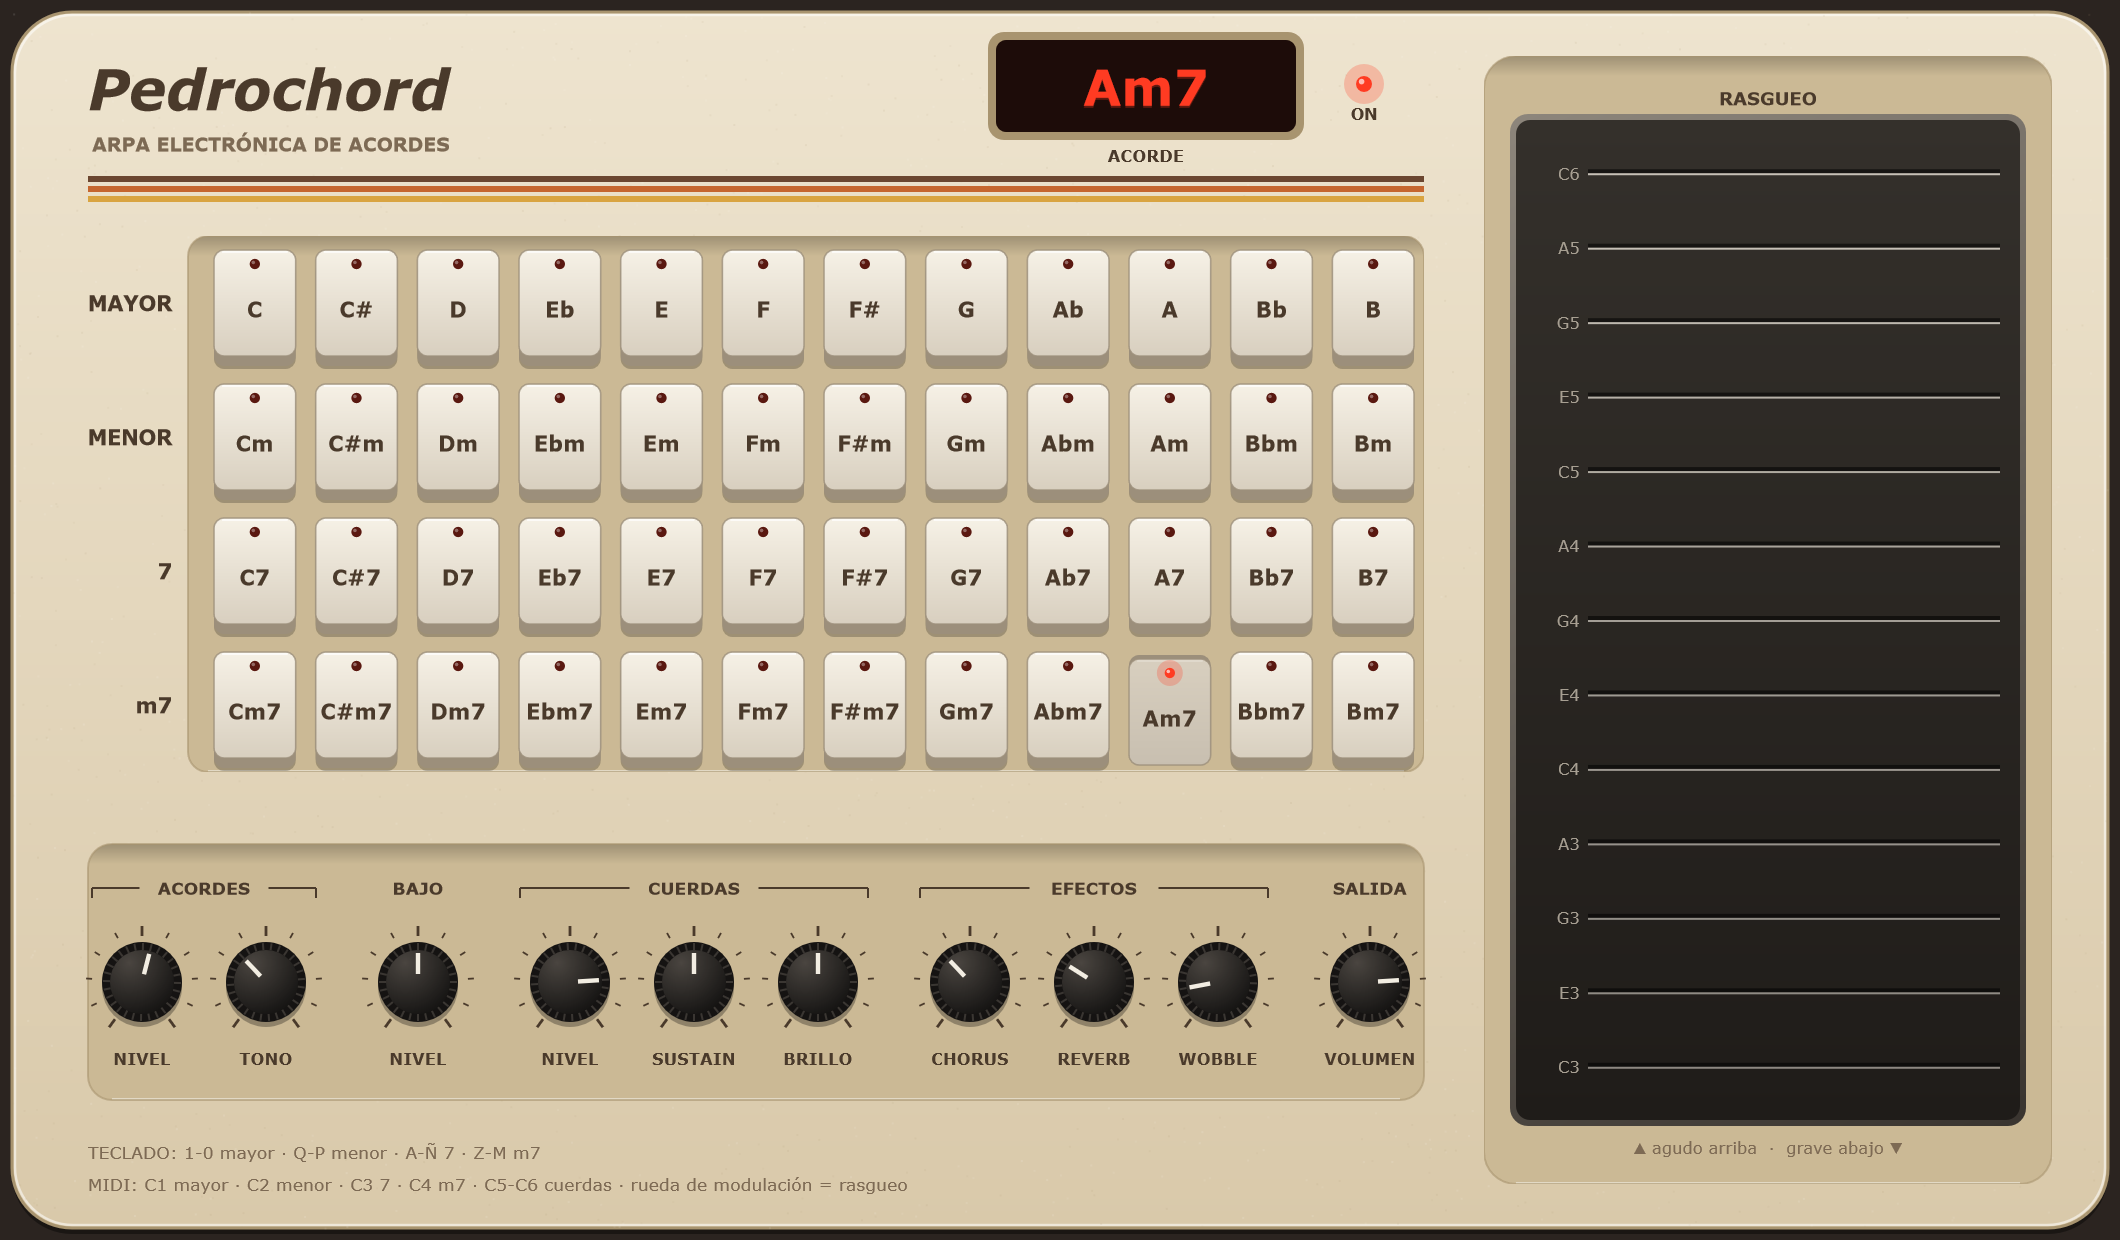
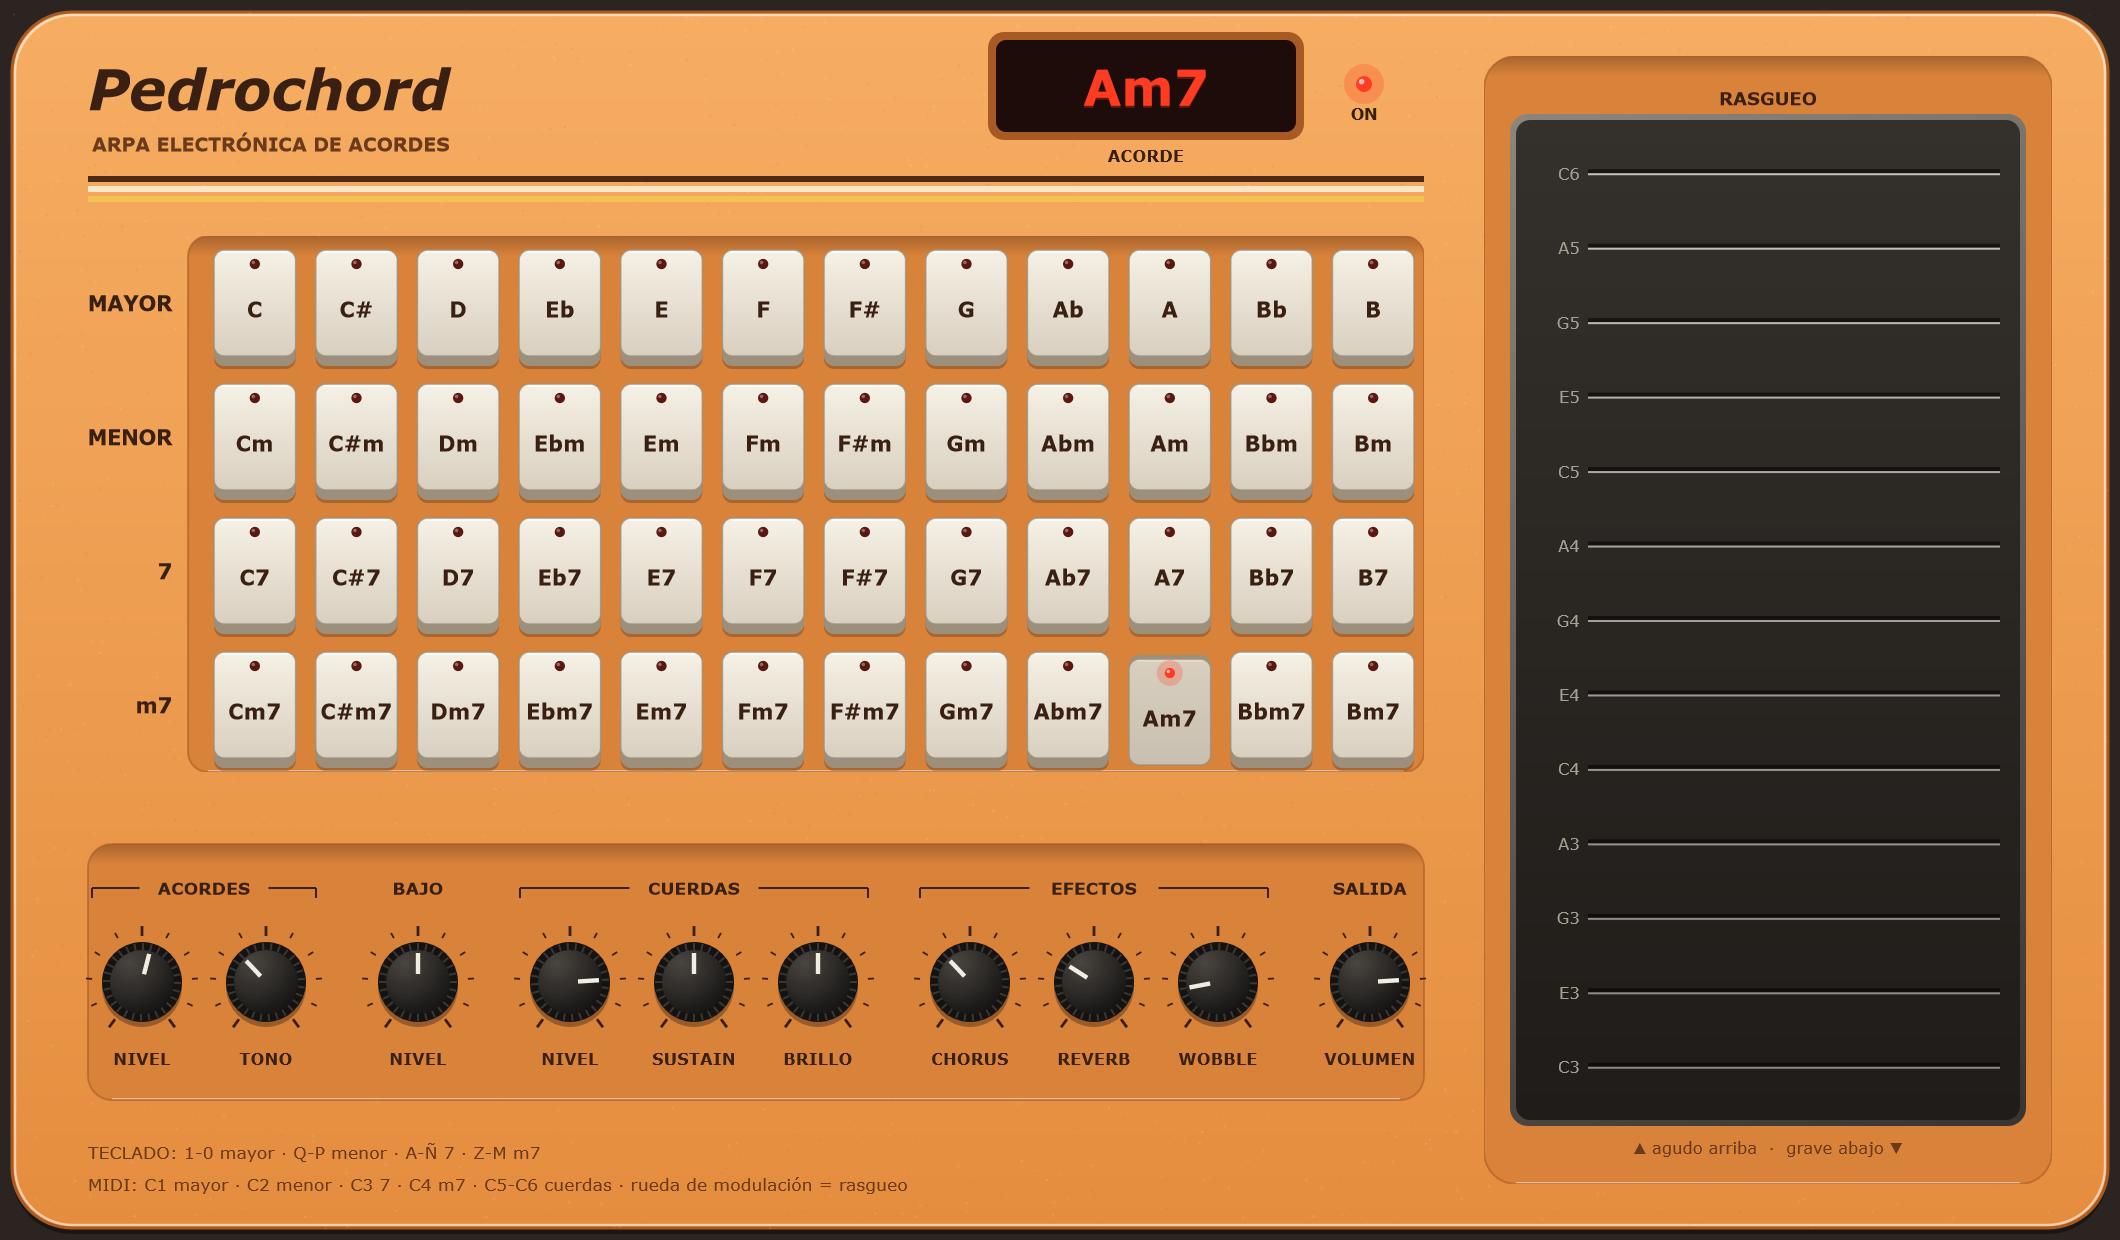
Paint the body orange
Soft orange plastic with darker moulded panels, dark-brown silkscreen and a
brown, cream and yellow stripe. The keys stay cream.

diff --git a/plugin/PluginEditor.cpp b/plugin/PluginEditor.cpp
@@ -7,11 +7,11 @@ namespace
 {
 namespace Colours
 {
-const juce::Colour bodyTop { 0xffeee4cf }, bodyBottom { 0xffd9c9aa }, bodyEdge { 0xffa8946f };
-const juce::Colour print { 0xff4a3a2b }, printSoft { 0xff7d6a54 }; // silkscreen ink
-const juce::Colour stripes[] = { juce::Colour { 0xff6b4630 }, juce::Colour { 0xffc5662f }, juce::Colour { 0xffd9a441 } };
+const juce::Colour bodyTop { 0xfff6ad62 }, bodyBottom { 0xffe58d3f }, bodyEdge { 0xffa85a24 }; // soft orange plastic
+const juce::Colour print { 0xff3a2012 }, printSoft { 0xff6b3a1c }; // silkscreen ink
+const juce::Colour stripes[] = { juce::Colour { 0xff4e2a16 }, juce::Colour { 0xfff6e7c8 }, juce::Colour { 0xfff3c24f } };
 const juce::Colour keyTop { 0xfff6f1e6 }, keyBottom { 0xffd8cfbf }, keySide { 0xff9c8f7b };
-const juce::Colour recess { 0xffcbb995 }; // panels set into the body
+const juce::Colour recess { 0xffd9823a }; // panels set into the body
 const juce::Colour ledOn { 0xffff3b22 }, ledOff { 0xff5a1810 }, ledWindow { 0xff1d0c09 };
 const juce::Colour plateTop { 0xff34302b }, plateBottom { 0xff1f1c19 }, ridge { 0xff4a443d };
 const juce::Colour ringing { 0xffd9d3c7 }; // the ridge of a string that is sounding

diff --git a/README.es.md b/README.es.md
@@ -42,7 +42,7 @@ dsp/      el instrumento: C++17 header-only, sin JUCE (también va a compilar a 
   include/pedrochord/effects.h   chorus y una reverb chica estilo Freeverb
   include/pedrochord/engine.h    pila de acordes apretados, lógica de rasgueo y mezcla
   tests/                       16 tests nativos
-plugin/   la capa JUCE y el editor, dibujado como hardware de los 80 (cuerpo crema, display de LEDs, placa ranurada)
+plugin/   la capa JUCE y el editor, dibujado como hardware de los 80 (cuerpo naranja, display de LEDs, placa ranurada)
 tools/    un renderizador fuera de pantalla que saca la captura de arriba
 ```
 

diff --git a/README.md b/README.md
@@ -42,7 +42,7 @@ dsp/      the instrument: header-only C++17, no JUCE (it will also compile to We
   include/pedrochord/effects.h   chorus and a small Freeverb-style reverb
   include/pedrochord/engine.h    held-chord stack, strum logic, mixing
   tests/                       16 native tests
-plugin/   JUCE wrapper and the editor, drawn as 1980s hardware (cream body, LED readout, ribbed plate)
+plugin/   JUCE wrapper and the editor, drawn as 1980s hardware (orange body, LED readout, ribbed plate)
 tools/    an off-screen renderer that takes the screenshot above
 ```
 
